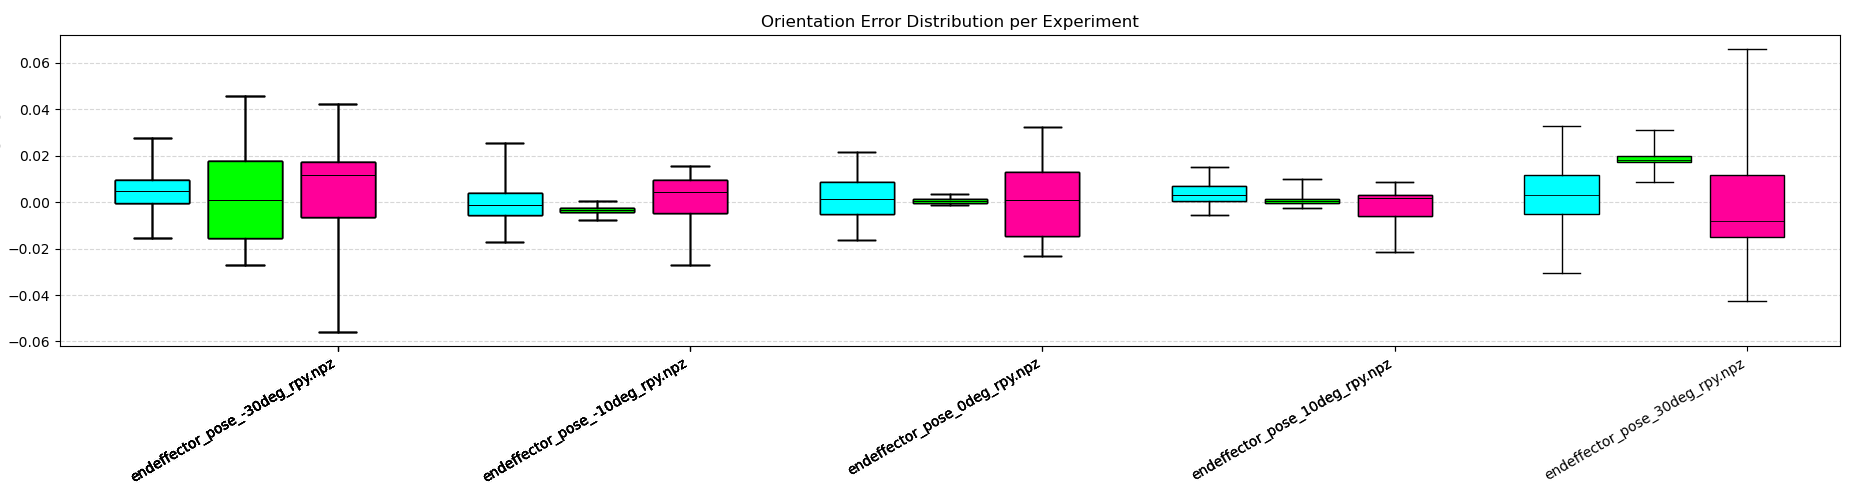
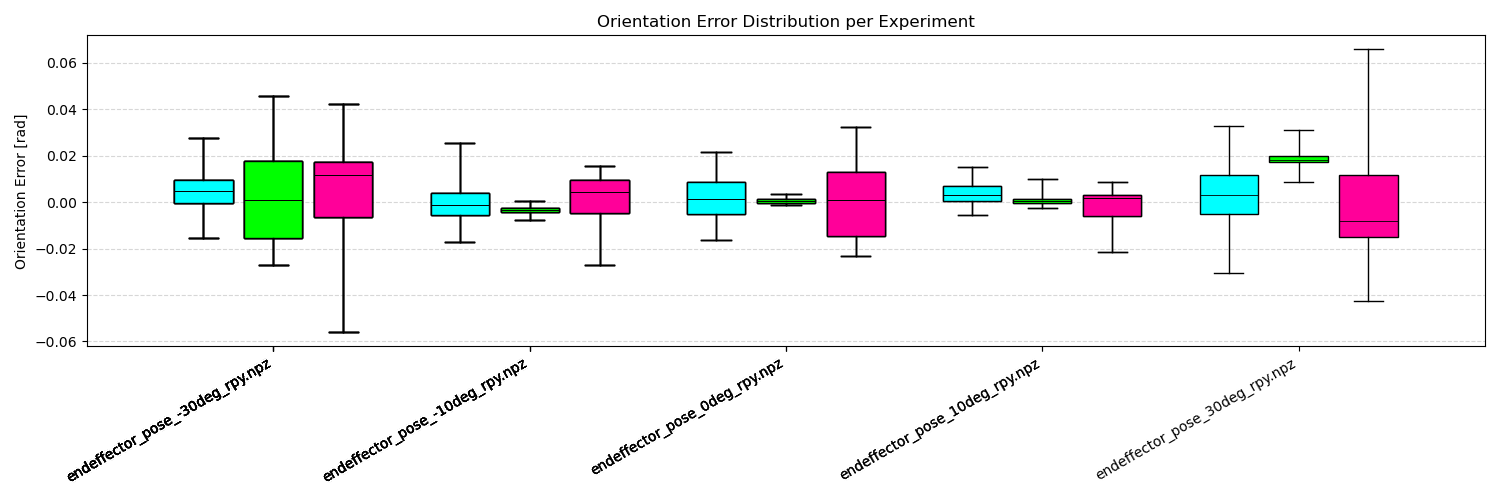
[scripts][figures] (boxplot_orientation.py) adjust figure size

diff --git a/scripts/boxplot_orientation.py b/scripts/boxplot_orientation.py
@@ -29,8 +29,8 @@ def main(npz_files, output, show):
         labels.append(os.path.basename(f))
 
         pos = 1
-        gap_a = 0.5
-        gap_b = 0.4
+        gap_a = 0.3
+        gap_b = 0.2
 
         for label, r, p, y in zip(labels, r_data, p_data, y_data):
             # Roll, Pitch, Yaw を順に追加
@@ -38,18 +38,18 @@ def main(npz_files, output, show):
             positions.extend([pos, pos + gap_a, pos + gap_a*2])
 
             # xtick は experiment の中央に置く
-            xtick_positions.append(pos + 1)
+            xtick_positions.append(pos + gap_a)
             xtick_labels.append(label)
 
             pos += gap_a*3 + gap_b
 
     # ===== boxplot =====
-    fig, ax = plt.subplots(figsize=(1.8 * len(labels)*3, 5))
+    fig, ax = plt.subplots(figsize=(1.0 * len(labels)*3, 5))
 
     bp = ax.boxplot(
         box_data,
         positions=positions,
-        widths=0.4,
+        widths=0.25,
         whis=[0, 100],
         showfliers=True,
         patch_artist=True,
